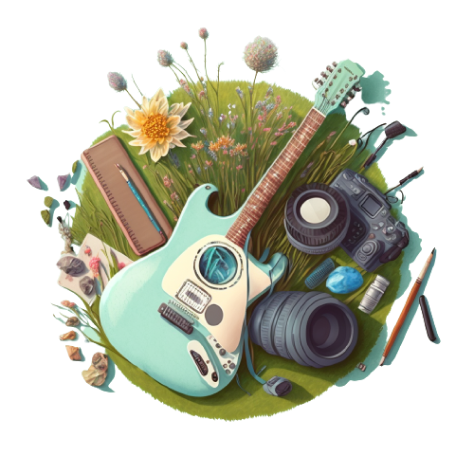
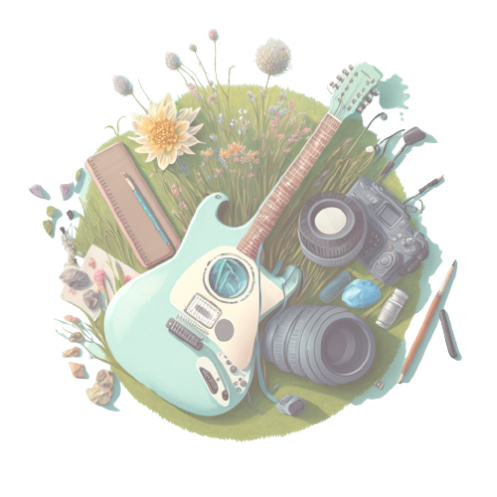
corrected home page bug

diff --git a/src/pages/Activities/Activities.js b/src/pages/Activities/Activities.js
@@ -1,6 +1,6 @@
 import React, { useEffect, useState } from 'react'
 import styles from './styles.module.css'
-
+import Arrow from '../../Images/Icon.png';
 import PaintingIcon from '../../assets/icons/painting-icon.svg'
 import PhotographyIcon from '../../assets/icons/photography-icon.svg'
 import TechnologyIcon from '../../assets/icons/technology-icon.svg'
@@ -204,9 +204,12 @@ export default function Activities() {
          <div className='px-4 lg:px-0'>
 
             <div className='pt-6 mb-8 lg:grid lg:grid-cols-2 lg:px-[80px] lg:bg-activities-gradient'>
-               <div className='lg:flex lg:justify-center flex-col'>
-                  <h3 className='text-xl font-bold mb-2.5 lg:mb-4 lg:text-5xl lg:font-medium'> My Activities
+               <div className='lg:flex mt-10 flex-col'>
+               <div className=' flex items-center mb-2'>
+                  <h3 className='text-xl font-bold mb-2.5 lg:mb-4 lg:text-4xl lg:font-medium'> My activities
                   </h3>
+                  <p className='pl-7'><img src={Arrow} alt="" /></p>
+                  </div>
                   {myActivities.length > 0 ?
                      myActivities.map(activity => {
                         return <MyActivityCard key={activity.id} {...activity} />
@@ -224,7 +227,10 @@ export default function Activities() {
 
             <div className='lg:px-[80px] lg:max-w-[1000px] lg:pb-[150px]'>
                <div className=''>
+               <div className=' flex items-center mb-2'>
                   <h3 className='text-4xl font-semibold mb-2.5'> All Activities </h3>
+                  <p className='pl-7'><img src={Arrow} alt="" /></p>
+                  </div>
                   <Filterbar items={filterItems} onChange={onChange} />
                </div>
 

diff --git a/src/components/Filterbar/filterbar.js b/src/components/Filterbar/filterbar.js
@@ -18,7 +18,7 @@ export default function Filterbar({ items, onChange }) {
                   return (
                      <div key={item.id}
                         onClick={() => onChange(item)}
-                        className={` text-sm font-medium cursor-pointer border border-[#79747E] fle justify-center items-center mr-2 rounded-lg px-2 py-1 shrink-0 ${item.selected ? 'bg-primary text-white' : 'text-lightBlack'} `}>
+                        className={` text-base font-medium cursor-pointer border border-[#79747E] fle justify-center items-center mr-2 rounded-lg px-2 py-1 shrink-0 ${item.selected ? 'bg-primary text-white' : 'text-lightBlack'} `}>
                         {item.children}
                      </div>
                   )

diff --git a/src/pages/Desktop/DesktopActivities/DesktopActivities.js b/src/pages/Desktop/DesktopActivities/DesktopActivities.js
@@ -11,7 +11,6 @@ import Logo8 from '../../../Images/Activity/Desktop (6).png'
 import './DesktopActivities.css'
 import SeeLogo from '../../../Images/Group.png'
 
-
 const DesktopActivities = () => {
     const activities = [
         {
@@ -82,11 +81,7 @@ const DesktopActivities = () => {
             img: Logo3,
             color: '#7B34FB'
         },
-
-
     ]
-
-
     return (
         <div style={{ marginTop: '88px', marginRight: '436px' }} className='ml-24'>
             <div className=' flex items-center mb-20'>

diff --git a/src/pages/Desktop/Learn/DesktopLearn.css b/src/pages/Desktop/Learn/DesktopLearn.css
@@ -6,6 +6,9 @@
     box-shadow: 0px 4px 4px rgba(0, 0, 0, 0.125);
     margin-bottom: 2px;
 }
+.slick-slide{
+    width: 405px;
+}
 
 .position-Ivory {
     position: absolute;
@@ -13,12 +16,7 @@
     left: 7%;
     color: white;
 }
-
-
-
 .price-learn {
-
-
     color: #1B72C0;
     font-weight: 600;
     font-size: 24px;
@@ -26,7 +24,6 @@
 
 .discount-learn {
     text-decoration-line: line-through;
-
     color: #74777F;
     font-weight: 400;
     font-size: 24px;

diff --git a/src/components/Activity/styles.module.css b/src/components/Activity/styles.module.css
@@ -4,14 +4,14 @@
    border: 1px solid #EBEDF0;
    box-shadow: 0px 0px 4px rgba(0, 0, 0, 0.18);
    border-radius: 24px;
-   width: 296px;
-    height: 260px;
+   /* width: 296px; */
+    /* height: 260px; */
     margin-top: 1rem;
    display: flex;
    column-gap: 7px;
    margin-bottom: 1rem;
 }
 .image{
-  height: 153px;
+  /* height: 153px; */
    
 }

diff --git a/src/pages/Activities/styles.module.css b/src/pages/Activities/styles.module.css
@@ -14,5 +14,8 @@
 }
 
 .guitar {
-   width: 100%;
+   width: 88%;
+   position: relative;
+   top: 10%;
+   left: 20%;
 }
